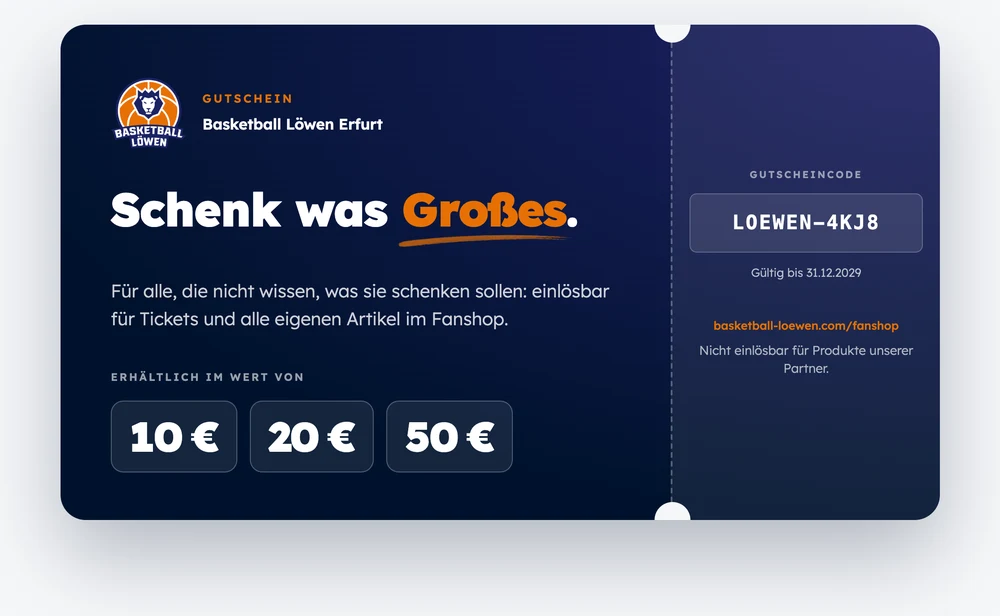
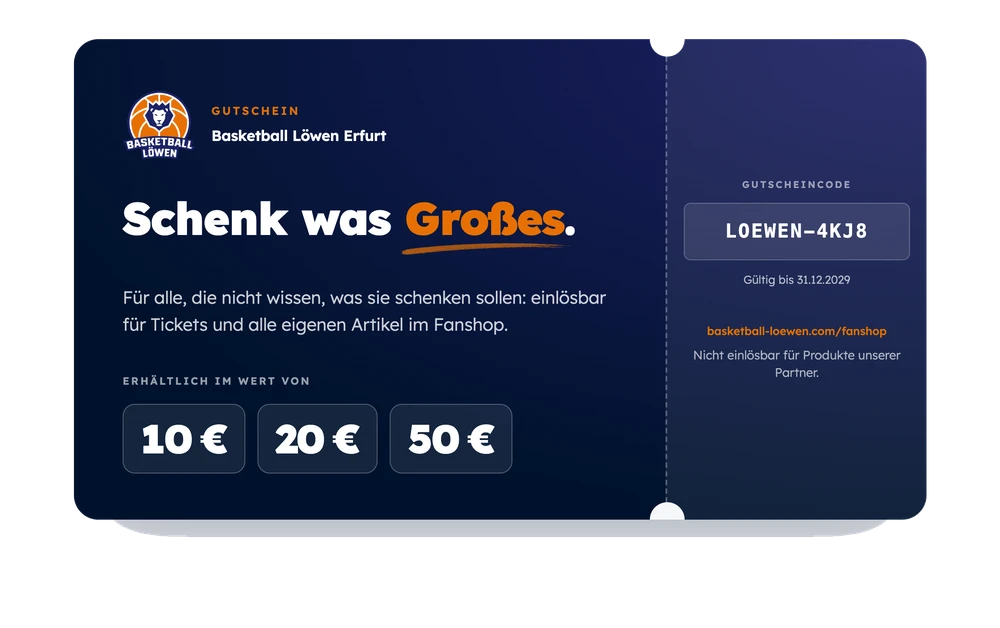
Fanshop: diverse Verbesserungen
- Warenkorb-Zeile: +/- Mengensteuerung nach links, Gesamtpreis als durchgehende rechte Spalte
- Gutschein-Bild: Hintergrund und die beiden Perforations-Einkerbungen jetzt transparent statt grauer Kasten
- "Weitere Produkte...Erfurt-Mitte"-Kachel entfernt
- Fanshop in Navigation (Desktop+Mobile) wieder freigeschaltet
- Drei Teaser-Kacheln (Kaffee/Pullover/T-Shirt) mit "Bald auch hier zu bestellen"-Stempel,
  verlinken zu DenkMahl bzw. Erfurt Mitte statt Warenkorb-Funktion (Rays Shop-Link fehlt noch)

Changed region(s): [[0.031, 0.0308, 0.992, 0.9562], [0.651, 0.1851, 0.682, 0.2776]]

diff --git a/fanshop.html b/fanshop.html
@@ -33,12 +33,20 @@
   .fanshop-product h4 { font-size: 14px; font-weight: 600; margin-bottom: 4px; line-height: 1.3; }
   .fanshop-product .fanshop-price { font-weight: 700; margin-bottom: 10px; }
   .fanshop-product .seatplan-stepper { width: 100%; justify-content: center; }
-  .fanshop-more-card {
-    display: flex; align-items: center; gap: 16px; flex-wrap: wrap;
-    background: var(--bg-subtle); border: 1px solid var(--border); border-radius: var(--radius-lg);
-    padding: 18px 20px; margin-top: 20px;
+  a.fanshop-teaser { text-decoration: none; color: inherit; display: block; }
+  a.fanshop-teaser:hover { border-color: var(--color-brand-orange); }
+  .fanshop-teaser-img { position: relative; }
+  .fanshop-teaser-stamp {
+    position: absolute; top: 22%; left: -12%; width: 124%;
+    background: var(--color-brand-navy); color: #fff; text-align: center;
+    font-size: 10.5px; font-weight: 700; text-transform: uppercase; letter-spacing: .03em;
+    padding: 6px 0; transform: rotate(-10deg); box-shadow: 0 2px 8px rgba(0,0,0,.3);
   }
-  .fanshop-more-card p { margin: 0; flex: 1; min-width: 220px; }
+  .fanshop-teaser-shop {
+    display: inline-flex; align-items: center; gap: 4px;
+    font-size: 13px; font-weight: 600; color: var(--color-brand-orange-text);
+  }
+  a.fanshop-teaser:hover .fanshop-teaser-shop { text-decoration: underline; }
   .fanshop-giftcard-card { display: grid; grid-template-columns: 260px 1fr; gap: 8px 24px; padding: 20px; margin-bottom: 24px; align-items: center; }
   @media (max-width: 680px) { .fanshop-giftcard-card { grid-template-columns: 1fr; } }
   .fanshop-giftcard-heading { grid-column: 1 / -1; }
@@ -84,12 +92,6 @@
           </div>
 
           <div class="fanshop-products mt-6" id="fanshop-products"></div>
-
-          <div class="fanshop-more-card">
-            <i data-lucide="shopping-bag" class="icon-28" style="color:var(--color-brand-orange);flex-shrink:0"></i>
-            <p class="t-body-sm">Weitere Produkte und unsere Design-Linie findest du in unserem Fanshop von Erfurt-Mitte.</p>
-            <a class="btn btn-primary btn-sm" href="https://erfurt-mitte.de/collections/fanshop-basketball-loewen-erfurt" target="_blank" rel="noopener">Weitere Produkte <i data-lucide="arrow-up-right" class="icon-16"></i></a>
-          </div>
         </div>
 
         <div class="card" id="order-summary-card" style="padding:24px;background:var(--bg-subtle)">
@@ -127,6 +129,13 @@
       { id: 'gutschein-20', name: 'Gutschein 20,00 €', price: 20.00, category: 'gutschein' },
       { id: 'gutschein-50', name: 'Gutschein 50,00 €', price: 50.00, category: 'gutschein' }
     ];
+    /* Teaser-Kacheln fuer Produkte, die (noch) nicht im eigenen Fanshop bestellbar sind,
+       sondern bei Kooperationspartnern - verlinken raus statt Warenkorb-Funktion. */
+    var TEASERS = [
+      { name: 'Kaffee-Kollektion', image: '/assets/img/shop-kaffee-loewen.webp', shopName: 'DenkMahl', shopUrl: 'https://denkmahl-kaffee.de/' },
+      { name: 'Pullover-Kollektion', image: '/assets/img/stock-shop-hoodie.webp', shopName: 'Erfurt Mitte', shopUrl: 'https://erfurt-mitte.de/collections/fanshop-basketball-loewen-erfurt' },
+      { name: 'T-Shirt-Kollektion', image: '/assets/img/stock-shop-tshirt.webp', shopName: 'Rays Shop', shopUrl: '' }
+    ];
     var cart = {}; // id -> qty
 
     function formatMoney(n) { return n.toFixed(2).replace('.', ',') + ' €'; }
@@ -154,6 +163,15 @@
         '<div class="fanshop-price">' + formatMoney(p.price) + '</div>' +
         stepperHtml(p) +
       '</div>';
+    }).join('') + TEASERS.map(function (t) {
+      return '<a class="card fanshop-product fanshop-teaser" style="padding:16px" href="' + t.shopUrl + '" target="_blank" rel="noopener">' +
+        '<div class="fanshop-product-img fanshop-teaser-img">' +
+          '<img loading="lazy" src="' + t.image + '" alt="' + t.name + '" />' +
+          '<span class="fanshop-teaser-stamp">Bald auch hier zu bestellen</span>' +
+        '</div>' +
+        '<h4>' + t.name + '</h4>' +
+        '<span class="fanshop-teaser-shop">Zum Shop von ' + t.shopName + ' <i data-lucide="arrow-up-right" class="icon-14"></i></span>' +
+      '</a>';
     }).join('');
     if (window.lucide) window.lucide.createIcons();
 
@@ -227,7 +245,7 @@
             : '<button type="button" data-remove="' + l.id + '">entfernen</button>';
           return '<div class="seatplan-cart-item">' +
             '<div>' + l.qty + '× ' + l.label + '<br><span class="t-caption">' + formatMoney(l.unitPrice) + ' je Stück</span></div>' +
-            '<div class="seatplan-cart-item-right"><span>' + formatMoney(l.lineTotal) + '</span>' + qtyControl + '</div>' +
+            '<div class="seatplan-cart-item-right">' + qtyControl + '<span>' + formatMoney(l.lineTotal) + '</span></div>' +
           '</div>';
         }).join('');
         ctaEl.disabled = false;

diff --git a/partials/header.html b/partials/header.html
@@ -3,7 +3,7 @@
     <div class="container">
       <button type="button" class="utility-link" data-search-toggle aria-label="Suche öffnen" aria-haspopup="true" aria-expanded="false"><i data-lucide="search" class="icon-16"></i></button>
       <a class="utility-link" href="/tickets.html"><i data-lucide="ticket" class="icon-16"></i><span class="label-text">Tickets</span></a>
-      <span class="utility-link is-disabled" aria-disabled="true"><i data-lucide="shopping-bag" class="icon-16"></i><span class="label-text">Fanshop</span></span>
+      <a class="utility-link" href="/fanshop.html"><i data-lucide="shopping-bag" class="icon-16"></i><span class="label-text">Fanshop</span></a>
       <a class="utility-link" href="/mitglied-werden.html"><i data-lucide="user-plus" class="icon-16"></i><span class="label-text">Mitglied werden</span></a>
       <a class="utility-link emphasis" href="/spenden.html" aria-label="Spenden"><i data-lucide="heart" class="icon-16"></i></a>
     </div>
@@ -173,7 +173,7 @@
   </ul>
   <div class="drawer-utility-section">
     <a href="/tickets.html">Tickets</a>
-    <span class="is-disabled" aria-disabled="true">Fanshop</span>
+    <a href="/fanshop.html">Fanshop</a>
     <a href="/mitglied-werden.html">Mitglied werden</a>
     <a href="/spenden.html">Spenden</a>
     <button type="button" data-search-toggle aria-haspopup="true" aria-expanded="false">Suche</button>
